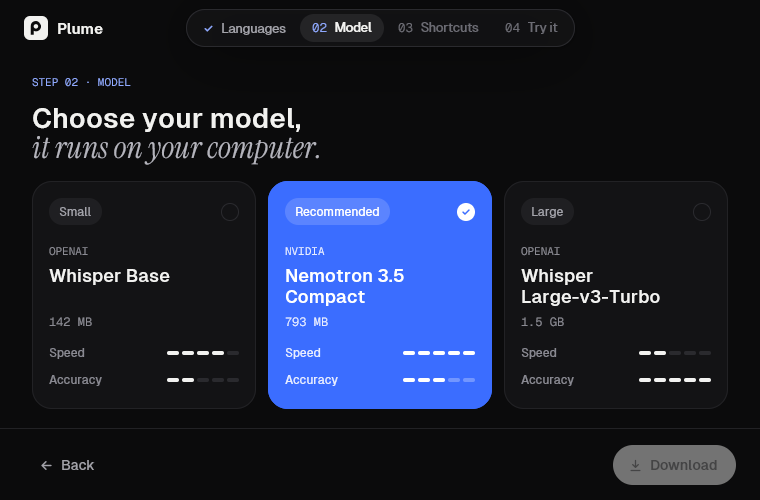
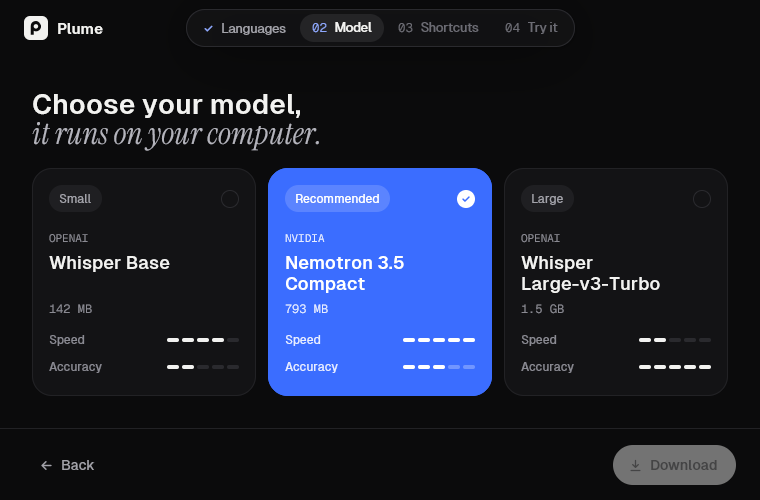
Drop the step label above the onboarding titles
The step island already says where people are, so the small
"Step 02 · Model" line only repeated it. The README loop is
re-recorded with the onboarding captured without it.

diff --git a/crates/plume-app/src/settings/onboarding.rs b/crates/plume-app/src/settings/onboarding.rs
@@ -6,7 +6,7 @@ use gpui::{
 use plume_engine::Engine;
 use plume_overlay::Feedback;
 use plume_session::{PreviewEvent, SessionMode};
-use plume_ui::{eyebrow, keycaps, Button, ButtonSize, KeySize, Tokens, FONT_MONO, FONT_SANS};
+use plume_ui::{keycaps, Button, ButtonSize, KeySize, Tokens, FONT_MONO, FONT_SANS};
 
 use super::view::{display_title, error_text, prose};
 use std::sync::mpsc::{Receiver, TryRecvError};
@@ -714,22 +714,8 @@ fn step_island(step: OnboardingStep, tokens: &Tokens) -> AnyElement {
         .into_any_element()
 }
 
-fn step_eyebrow(step: OnboardingStep, tokens: &Tokens) -> impl IntoElement {
-    let index = STEPS
-        .iter()
-        .position(|(item, _)| *item == step)
-        .unwrap_or(0);
-    eyebrow(
-        tr("onboarding.eyebrow")
-            .replace("{step}", &format!("{:02}", index + 1))
-            .replace("{name}", tr(STEPS[index].1)),
-        tokens.accent_text,
-    )
-}
-
-/// Eyebrow and two-line title on the left, a short lead on the right.
+/// Two-line title on the left, a short lead on the right.
 fn step_heading(
-    step: OnboardingStep,
     tokens: &Tokens,
     headline: &str,
     serif: &str,
@@ -745,7 +731,6 @@ fn step_heading(
                 .flex()
                 .flex_col()
                 .gap(px(10.))
-                .child(step_eyebrow(step, tokens))
                 .child(display_title(tokens, headline, serif, 28.)),
         )
         .children(lead.map(|lead| {
@@ -775,7 +760,6 @@ fn languages_screen(
                 .flex()
                 .flex_col()
                 .gap(px(12.))
-                .child(step_eyebrow(OnboardingStep::Languages, tokens))
                 .child(display_title(
                     tokens,
                     tr("onboarding.languages.headline"),
@@ -812,7 +796,6 @@ fn model_screen(
         .flex_col()
         .gap(px(18.))
         .child(step_heading(
-            OnboardingStep::Model,
             tokens,
             tr("onboarding.model.headline"),
             tr("onboarding.model.serif"),
@@ -1139,7 +1122,6 @@ fn shortcuts_screen(
         .flex_col()
         .gap(px(20.))
         .child(step_heading(
-            OnboardingStep::Shortcuts,
             tokens,
             tr("onboarding.shortcuts.headline"),
             tr("onboarding.shortcuts.serif"),
@@ -1474,19 +1456,12 @@ fn permissions_screen(
                 .items_end()
                 .justify_between()
                 .gap(px(24.))
-                .child(
-                    div()
-                        .flex()
-                        .flex_col()
-                        .gap(px(10.))
-                        .child(step_eyebrow(OnboardingStep::Permissions, tokens))
-                        .child(display_title(
-                            tokens,
-                            tr("onboarding.try.headline"),
-                            tr("onboarding.try.serif"),
-                            28.,
-                        )),
-                )
+                .child(div().flex().flex_col().gap(px(10.)).child(display_title(
+                    tokens,
+                    tr("onboarding.try.headline"),
+                    tr("onboarding.try.serif"),
+                    28.,
+                )))
                 .child(
                     div()
                         .flex()
